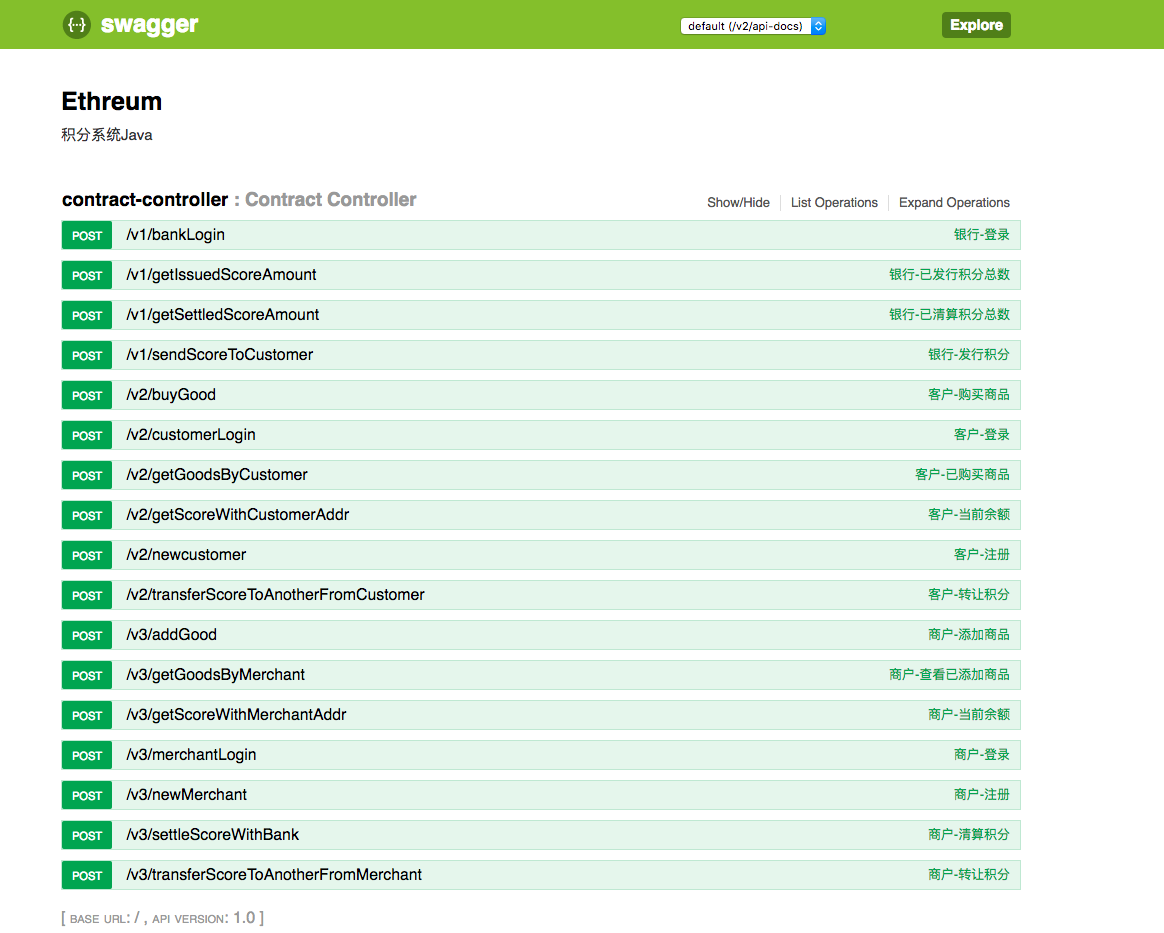
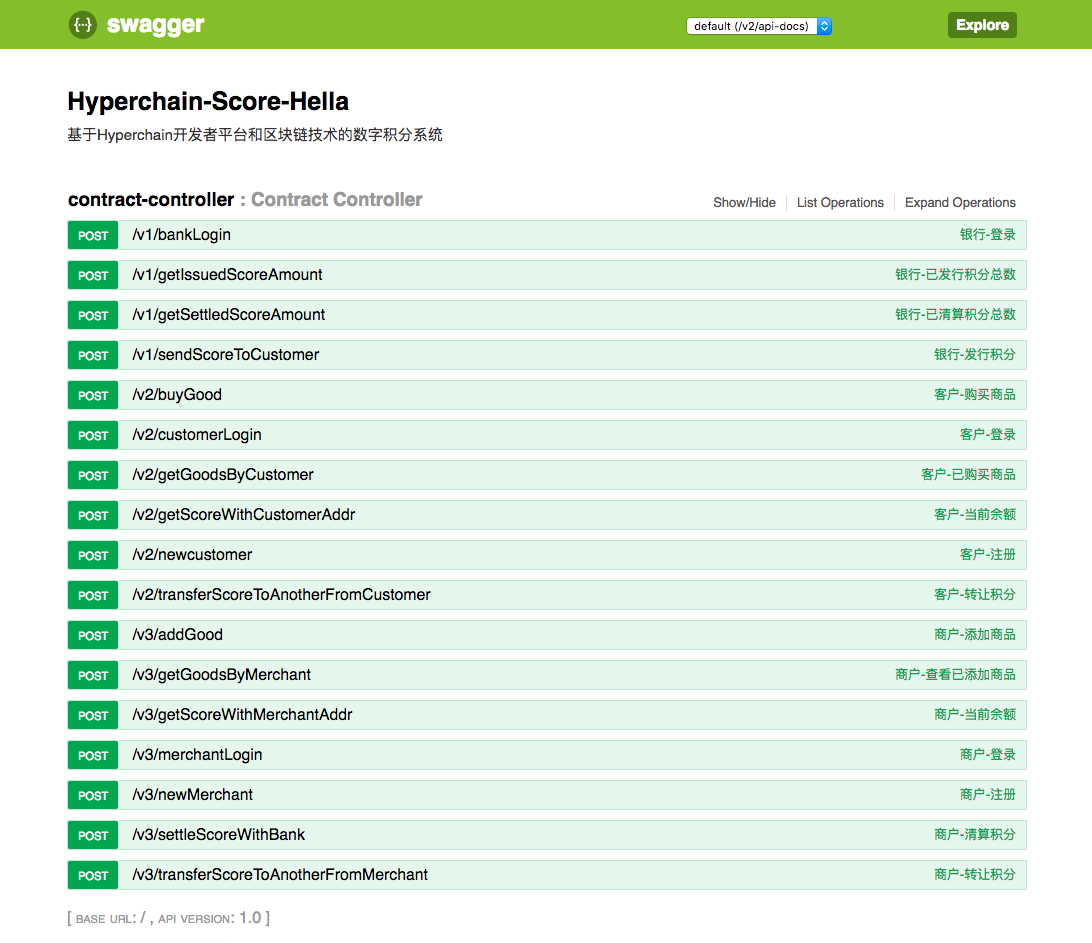
refactor

diff --git a/src/main/java/cn/hyperchain/application/config/Swagger2.java b/src/main/java/cn/hyperchain/application/config/Swagger2.java
@@ -35,8 +35,8 @@ public class Swagger2 {
 
     private ApiInfo apiInfo() {
         return new ApiInfoBuilder()
-                .title("Ethreum")
-                .description("积分系统Java")
+                .title("Hyperchain-Score-Hella")
+                .description("基于Hyperchain开发者平台和区块链技术的数字积分系统")
                 .termsOfServiceUrl("暂无")
                 .version("1.0")
                 .build();

diff --git a/README.md b/README.md
@@ -45,4 +45,4 @@
 ![](images/success.png)
 > 注意！token是有时效性的，失效后请重新获取。
 
-> 注意！如图中账户地址，需严格遵循地址格式（16进制）
+> 注意！如图中客户地址（customerAddress），需严格遵循16进制地址格式（例如`0x81f17bacd8c2927d0a507e23ab54667caa659e75`）
